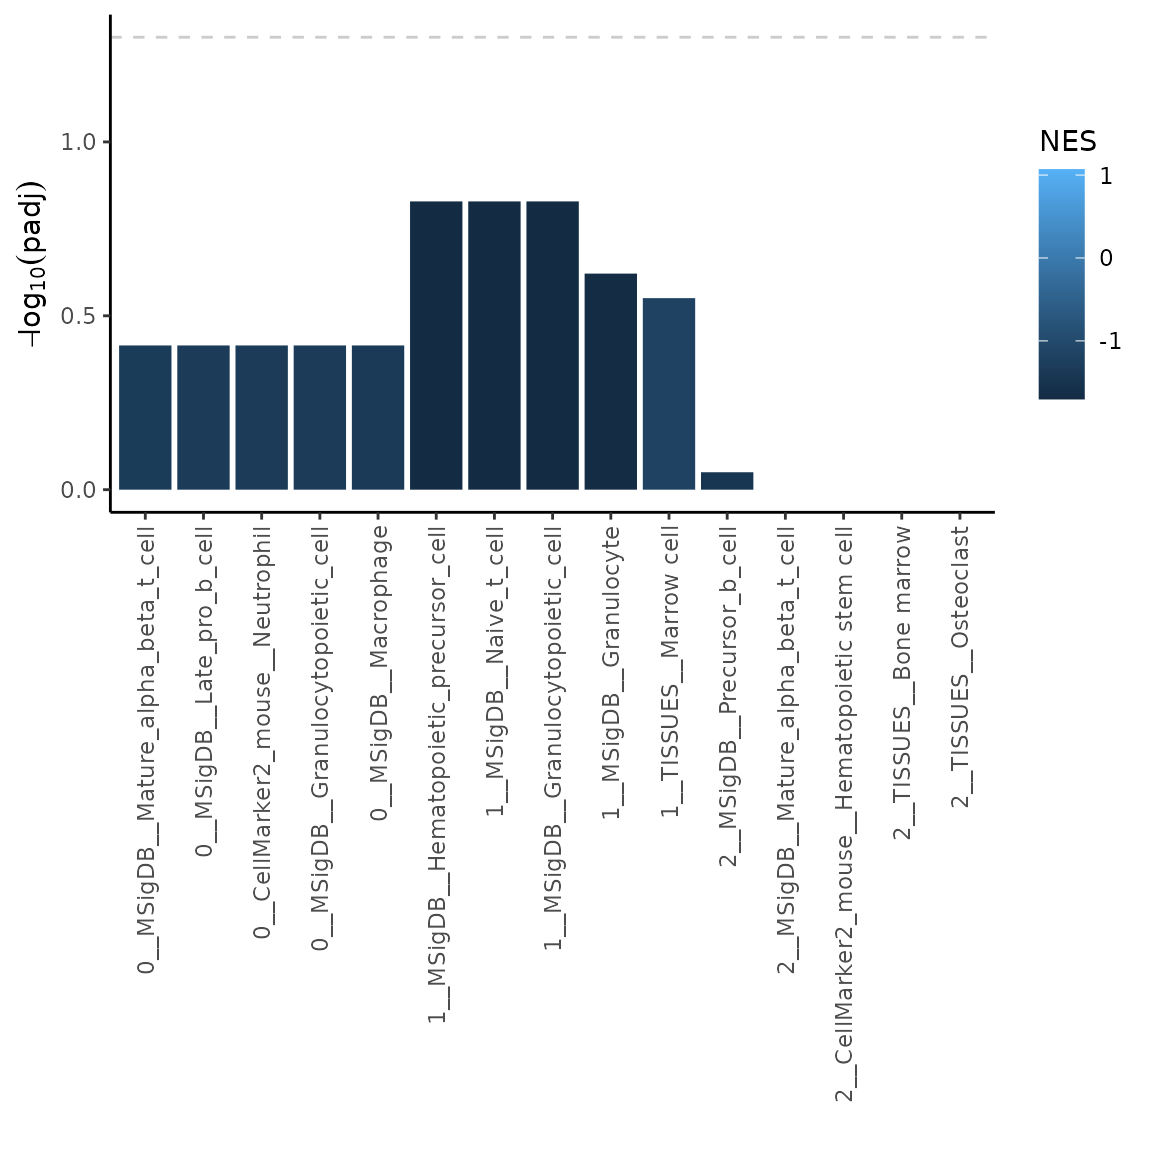
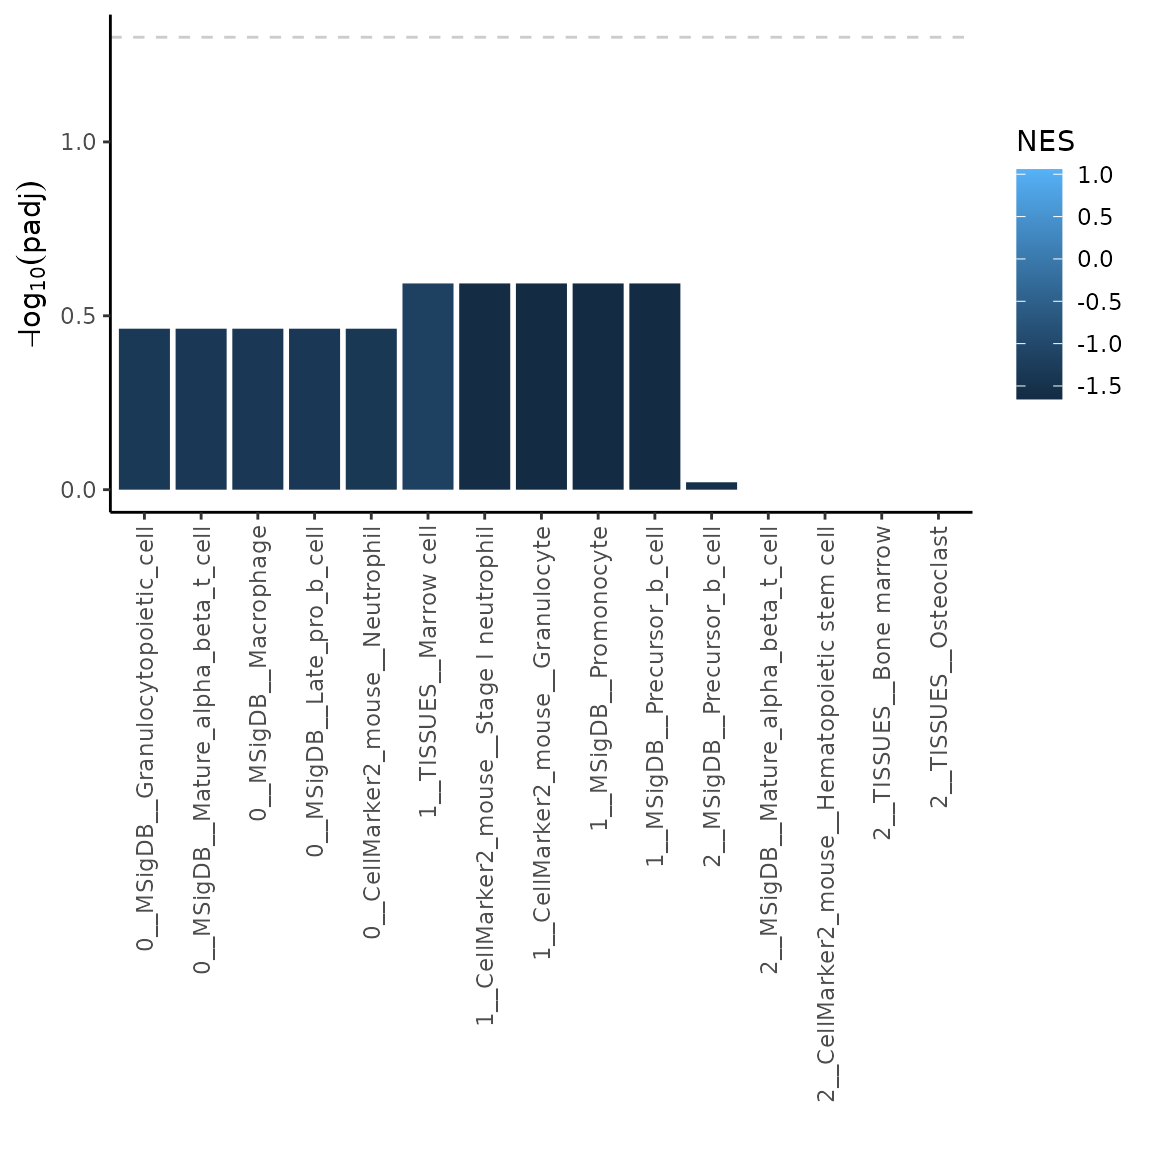
Deploying to gh-pages from @ Farber-Lab/BoneCellType@ad57b384acc3ce0a85110d35ceee180313256887 🚀

diff --git a/articles/intro_to_BoneCellType.html b/articles/intro_to_BoneCellType.html
@@ -66,7 +66,7 @@
                         <h4 data-toc-skip class="author">Kristyna
 Kupkova</h4>
             
-            <h4 data-toc-skip class="date">2023-09-26</h4>
+            <h4 data-toc-skip class="date">2023-09-30</h4>
       
       
       <div class="d-none name"><code>intro_to_BoneCellType.Rmd</code></div>
@@ -218,21 +218,21 @@ results.</p>
 <span>  <span class="fu"><a href="https://dplyr.tidyverse.org/reference/top_n.html" class="external-link">top_n</a></span><span class="op">(</span>n <span class="op">=</span> <span class="fl">2</span>, wt <span class="op">=</span> <span class="op">-</span><span class="va">padj</span><span class="op">)</span></span>
 <span></span>
 <span><span class="va">topGSEAres</span></span></code></pre></div>
-<pre><code><span><span class="co">#&gt; <span style="color: #949494;"># A tibble: 24 × 9</span></span></span>
+<pre><code><span><span class="co">#&gt; <span style="color: #949494;"># A tibble: 33 × 9</span></span></span>
 <span><span class="co">#&gt; <span style="color: #949494;"># Groups:   cluster [3]</span></span></span>
 <span><span class="co">#&gt;    pathway             pval  padj log2err     ES   NES  size leadingEdge cluster</span></span>
 <span><span class="co">#&gt;    <span style="color: #949494; font-style: italic;">&lt;chr&gt;</span>              <span style="color: #949494; font-style: italic;">&lt;dbl&gt;</span> <span style="color: #949494; font-style: italic;">&lt;dbl&gt;</span>   <span style="color: #949494; font-style: italic;">&lt;dbl&gt;</span>  <span style="color: #949494; font-style: italic;">&lt;dbl&gt;</span> <span style="color: #949494; font-style: italic;">&lt;dbl&gt;</span> <span style="color: #949494; font-style: italic;">&lt;int&gt;</span> <span style="color: #949494; font-style: italic;">&lt;chr&gt;</span>         <span style="color: #949494; font-style: italic;">&lt;int&gt;</span></span></span>
-<span><span class="co">#&gt; <span style="color: #BCBCBC;"> 1</span> CellMarker2_mous… 0.094<span style="text-decoration: underline;">7</span> 0.385   0.168 -<span style="color: #BB0000;">0.905</span> -<span style="color: #BB0000;">1.42</span>     7 Hba-a1            0</span></span>
-<span><span class="co">#&gt; <span style="color: #BCBCBC;"> 2</span> CellMarker2_mous… 0.173  0.385   0.124 -<span style="color: #BB0000;">0.852</span> -<span style="color: #BB0000;">1.33</span>     6 S100a9,Ltf…       0</span></span>
-<span><span class="co">#&gt; <span style="color: #BCBCBC;"> 3</span> CellMarker2_mous… 0.094<span style="text-decoration: underline;">5</span> 0.385   0.164 -<span style="color: #BB0000;">0.901</span> -<span style="color: #BB0000;">1.43</span>     8 Hba-a1,Hbb…       0</span></span>
-<span><span class="co">#&gt; <span style="color: #BCBCBC;"> 4</span> CellMarker2_mous… 0.080<span style="text-decoration: underline;">4</span> 0.385   0.194 -<span style="color: #BB0000;">0.927</span> -<span style="color: #BB0000;">1.42</span>     5 Hba-a1            0</span></span>
-<span><span class="co">#&gt; <span style="color: #BCBCBC;"> 5</span> MSigDB__Granuloc… 0.117  0.385   0.159 -<span style="color: #BB0000;">0.896</span> -<span style="color: #BB0000;">1.38</span>     5 S100a9,Mal…       0</span></span>
-<span><span class="co">#&gt; <span style="color: #BCBCBC;"> 6</span> MSigDB__Granuloc… 0.145  0.385   0.123 -<span style="color: #BB0000;">0.829</span> -<span style="color: #BB0000;">1.34</span>    13 S100a9,Mal…       0</span></span>
-<span><span class="co">#&gt; <span style="color: #BCBCBC;"> 7</span> MSigDB__Hematopo… 0.109  0.385   0.152 -<span style="color: #BB0000;">0.889</span> -<span style="color: #BB0000;">1.41</span>     8 S100a9,Mal…       0</span></span>
-<span><span class="co">#&gt; <span style="color: #BCBCBC;"> 8</span> MSigDB__Late_pro… 0.181  0.385   0.121 -<span style="color: #BB0000;">0.847</span> -<span style="color: #BB0000;">1.32</span>     6 S100a9,S10…       0</span></span>
-<span><span class="co">#&gt; <span style="color: #BCBCBC;"> 9</span> MSigDB__Macropha… 0.164  0.385   0.121 -<span style="color: #BB0000;">0.847</span> -<span style="color: #BB0000;">1.35</span>     8 S100a9,Ltf…       0</span></span>
-<span><span class="co">#&gt; <span style="color: #BCBCBC;">10</span> MSigDB__Mature_a… 0.186  0.385   0.119 -<span style="color: #BB0000;">0.843</span> -<span style="color: #BB0000;">1.32</span>     6 Malat1            0</span></span>
-<span><span class="co">#&gt; <span style="color: #949494;"># ℹ 14 more rows</span></span></span></code></pre>
+<span><span class="co">#&gt; <span style="color: #BCBCBC;"> 1</span> CellMarker2_mous… 0.091<span style="text-decoration: underline;">2</span> 0.344   0.171 -<span style="color: #BB0000;">0.905</span> -<span style="color: #BB0000;">1.45</span>     7 Hba-a1            0</span></span>
+<span><span class="co">#&gt; <span style="color: #BCBCBC;"> 2</span> CellMarker2_mous… 0.141  0.344   0.137 -<span style="color: #BB0000;">0.852</span> -<span style="color: #BB0000;">1.37</span>     6 S100a9,Ltf…       0</span></span>
+<span><span class="co">#&gt; <span style="color: #BCBCBC;"> 3</span> CellMarker2_mous… 0.089<span style="text-decoration: underline;">4</span> 0.344   0.170 -<span style="color: #BB0000;">0.901</span> -<span style="color: #BB0000;">1.44</span>     8 Hba-a1,Hbb…       0</span></span>
+<span><span class="co">#&gt; <span style="color: #BCBCBC;"> 4</span> CellMarker2_mous… 0.067<span style="text-decoration: underline;">2</span> 0.344   0.211 -<span style="color: #BB0000;">0.927</span> -<span style="color: #BB0000;">1.45</span>     5 Hba-a1            0</span></span>
+<span><span class="co">#&gt; <span style="color: #BCBCBC;"> 5</span> MSigDB__Granuloc… 0.097<span style="text-decoration: underline;">0</span> 0.344   0.174 -<span style="color: #BB0000;">0.896</span> -<span style="color: #BB0000;">1.40</span>     5 S100a9,Mal…       0</span></span>
+<span><span class="co">#&gt; <span style="color: #BCBCBC;"> 6</span> MSigDB__Granuloc… 0.166  0.344   0.113 -<span style="color: #BB0000;">0.829</span> -<span style="color: #BB0000;">1.34</span>    13 S100a9,Mal…       0</span></span>
+<span><span class="co">#&gt; <span style="color: #BCBCBC;"> 7</span> MSigDB__Hematopo… 0.110  0.344   0.151 -<span style="color: #BB0000;">0.889</span> -<span style="color: #BB0000;">1.42</span>     8 S100a9,Mal…       0</span></span>
+<span><span class="co">#&gt; <span style="color: #BCBCBC;"> 8</span> MSigDB__Late_pro… 0.145  0.344   0.135 -<span style="color: #BB0000;">0.847</span> -<span style="color: #BB0000;">1.36</span>     6 S100a9,S10…       0</span></span>
+<span><span class="co">#&gt; <span style="color: #BCBCBC;"> 9</span> MSigDB__Macropha… 0.159  0.344   0.123 -<span style="color: #BB0000;">0.847</span> -<span style="color: #BB0000;">1.35</span>     8 S100a9,Ltf…       0</span></span>
+<span><span class="co">#&gt; <span style="color: #BCBCBC;">10</span> MSigDB__Mature_a… 0.148  0.344   0.134 -<span style="color: #BB0000;">0.843</span> -<span style="color: #BB0000;">1.35</span>     6 Malat1            0</span></span>
+<span><span class="co">#&gt; <span style="color: #949494;"># ℹ 23 more rows</span></span></span></code></pre>
 <p>As shown, the output is a table with following variables-
 <em>pathaway</em>: defines a set of markers used for GSEA analysis /
 <em>pval</em>: p-value / <em>padj</em>: adjusted p-value /
